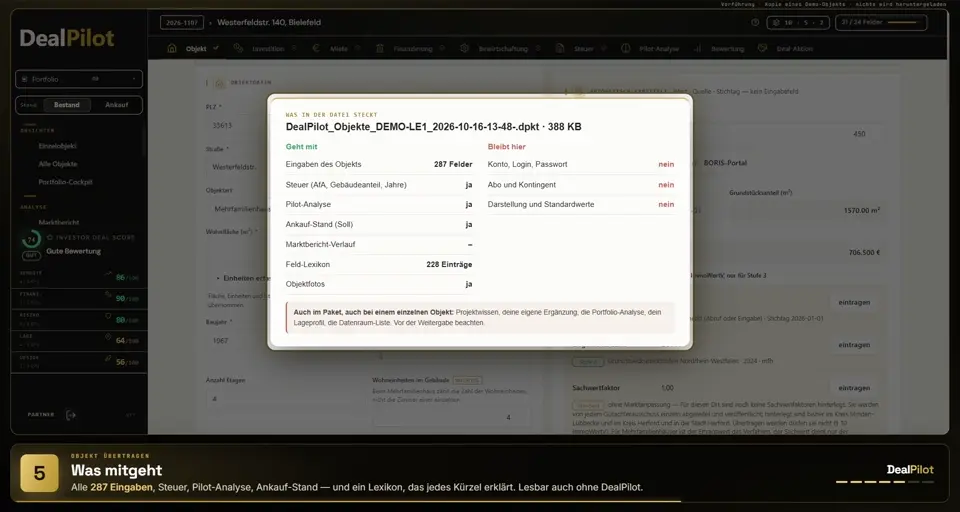
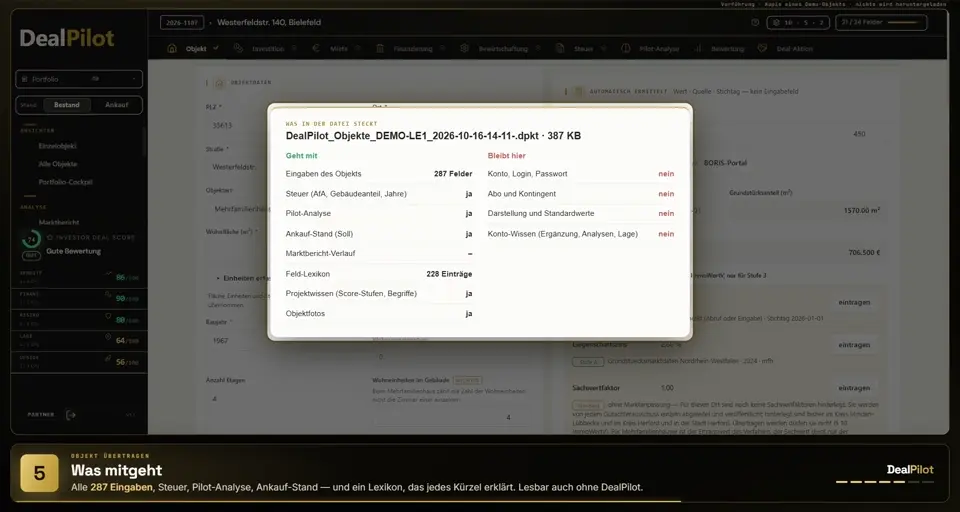
landing-videothek-3a: Module 17 und 21 neu (v2351/v2353) - Dauer, Poster 17, Buster

Changed region(s): [[0.2812, 0.1562, 0.7188, 0.6875], [0.6875, 0.3125, 0.7188, 0.4688], [0.4375, 0.5, 0.5, 0.5625]]

diff --git a/frontend/landing/dp2-live.js b/frontend/landing/dp2-live.js
@@ -21,7 +21,7 @@
    ═══════════════════════════════════════════════════════════════════════ */
 (function () {
   'use strict';
-  var QUELLE = 'assets/videothek/videos.json?v=landing-videothek-3';
+  var QUELLE = 'assets/videothek/videos.json?v=landing-videothek-3a';
   var ruhig = matchMedia('(prefers-reduced-motion: reduce)').matches;
   var PLAY = '<svg viewBox="0 0 24 24" aria-hidden="true"><path d="M7 4.5v15l13-7.5z"/></svg>';
   var PAUSE = '<svg viewBox="0 0 24 24" aria-hidden="true"><path d="M6 4h4.5v16H6zM13.5 4H18v16h-4.5z"/></svg>';

diff --git a/frontend/landing/index.html b/frontend/landing/index.html
@@ -691,7 +691,7 @@
 <script src="demo-steuer-daten.js?v=v1600"></script>
 <script src="demo-wechsel.js?v=v1600"></script>
 <script src="dp2.js?v=v1570"></script>
-<script src="dp2-live.js?v=landing-videothek-3"></script><!-- landing-videothek-1 -->
+<script src="dp2-live.js?v=landing-videothek-3a"></script><!-- landing-videothek-1 -->
 <!-- v1588: Zwei Funktionen, die der alten Landing schon gehoerten und
      hier gefehlt haben. Beide betreffen Geld, deshalb standen sie ganz
      oben auf der Abgleichsliste:

diff --git a/frontend/landing/videothek.html b/frontend/landing/videothek.html
@@ -121,6 +121,6 @@
 
 
 <script src="dp2.js?v=v1565"></script>
-<script src="dp2-live.js?v=landing-videothek-3"></script>
+<script src="dp2-live.js?v=landing-videothek-3a"></script>
   <script src="assets/umgebung.js?v=v1644"></script><!-- v1644 · Landing zeigt auf DIE App, in der sie steht -->
 </body></html>
